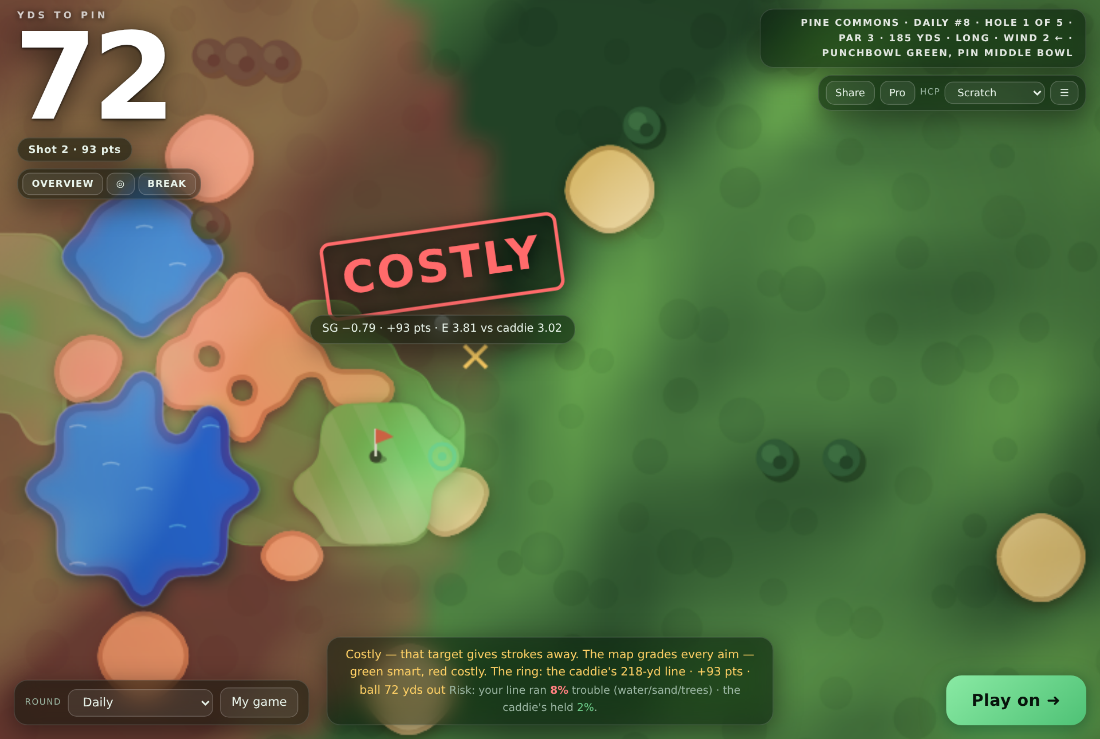
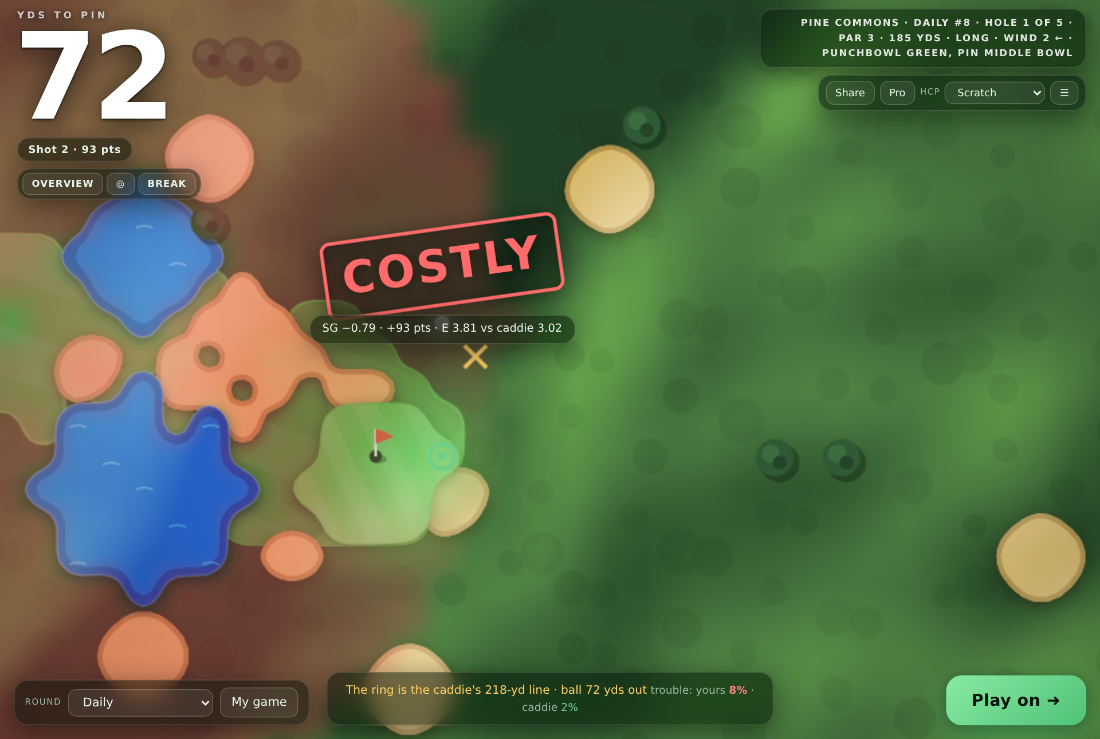
Say it once: the caddie line decrowded, and the first step toward real holes
THE BOTTOM BOX. It was carrying up to four dense lines because it repeated
what the rest of the screen already said: the stamp calls the verdict, the
chip carries the numbers, the canvas tag shows carry and plays-like — and the
box said all of it again, plus a "green smart, red costly" explainer riding
along on every single shot of every round. Now each element says its thing
exactly once. The box keeps only what nothing else shows: club, leave, the
landing odds, and on the reveal the caddie's line and the ball. Prose became
notation ("224y · plays 199 · driver · leaves 80"), the mechanics coaching
moved into the tutorial where it is said one time, and the heat-colour
explainer joined the Keep-score step.

THE REAL-HOLES QUESTION. The editor gains an aerial underlay: load a local
satellite or drone image, dial the ground back to a translucent tracing layer,
and paint the terrain you see — then certify and share exactly like any
authored hole. Two rules keep it honest. The TILES stay the truth: the engine
scores the mask, never the photo, and tracing is precisely the act of making
the two agree. And the IMAGE never leaves the machine: a shared URL carries
seed + patch only, so redistribution of imagery — the entire licensing
question — never arises. Tee and cup punch through the tracing alpha, because
they are the two facts a trace is anchored to.

Tests 279, all green. Proof: docs/proof/editor-trace.png (a photo under the
[…]

Changed region(s): [[0.2782, 0.8403, 0.7109, 0.9648]]

diff --git a/src/ui/copy.js b/src/ui/copy.js
@@ -24,14 +24,15 @@ export const copy = {
   scoreLine: (shot, pts) => `Shot ${shot} · ${pts} pts`,
 
   // ---- aiming ----
-  firstAim: (yds) =>
-    `${yds} yds to the pin. Move to aim — the ellipse is everywhere this shot can finish. Click the course (or tap Hit it) to play it.`,
-  nextShot: (shot, yds) => `${yds} yds in. Shot ${shot} — pick your target from this lie.`,
+  // One short line. The tutorial teaches the mechanics once; repeating them
+  // under every shot was most of why the box crowded the bottom of the screen.
+  firstAim: (yds) => `${yds} yds. Pick your target.`,
+  nextShot: (shot, yds) => `${yds} yds in. Pick your target.`,
   // `plays` is the elevation-adjusted number when the land moves it: the
   // caddie's own "165 yds — plays 178".
   aimReadout: ({ carry, club, leaves, atFlag, plays }) =>
-    `${carry}-yd carry` + (plays ? ` — plays ${plays}` : '') + `, ${club}`
-    + (atFlag ? ' — going at the flag.' : ` · leaves ${leaves} yds.`),
+    `${carry}y` + (plays ? ` · plays ${plays}` : '') + ` · ${club}`
+    + (atFlag ? ' · at the flag' : ` · leaves ${leaves}`),
   patternLine: ({ w, l, pct, medianLeave }) => {
     const parts = [];
     if (pct.green) parts.push(`<span class="fw">${pct.green}% green</span>`);
@@ -40,14 +41,14 @@ export const copy = {
     if (pct.sand) parts.push(`${pct.sand}% sand`);
     if (pct.trees) parts.push(`${pct.trees}% trees`);
     if (pct.wet) parts.push(`<span class="wet">${pct.wet}% water/OB</span>`);
-    return `Lands inside ${w} × ${l} yds · ${parts.join(' · ')}` +
-      (medianLeave !== null ? ` · median leave ${medianLeave} yds` : '');
+    return `${w}×${l} yds · ${parts.join(' · ')}` +
+      (medianLeave !== null ? ` · leave ~${medianLeave}` : '');
   },
   proPattern: 'Pro mode — no odds, no dots. Your read against the reveal. 🧠',
 
   // ---- putting ----
   // Same voice on the green: say the footage, then the pace, then nothing.
-  puttFirst: (ft) => `On the dance floor — a ${ft}-footer. Aim your pace; the ball rolls the line you set.`,
+  puttFirst: (ft) => `A ${ft}-footer. Aim your pace.`,
   puttNext: (n, ft) => `Putt ${n}: a ${ft}-footer left. Pick your pace.`,
   /** Pace call for `ft` feet past (+) or short (−) of the cup. */
   paceCall: (ft) => {
@@ -56,22 +57,22 @@ export const copy = {
     const mag = Math.abs(ft) < 2 ? `${Math.abs(inches)} inches` : `${Math.round(Math.abs(ft))} feet`;
     return ft > 0 ? `${mag} of pace past the cup` : `${mag} short of the cup`;
   },
-  puttAim: ({ ft, pace, make }) => `${ft}-footer, playing ${pace} — ${make}% to drop.`,
+  puttAim: ({ ft, pace, make }) => `${ft} ft · ${pace} · ${make}% to drop.`,
   /** Break call when slope bends the current line. `cups` is break in cup-widths. */
   puttBreakNote: (side, cups) =>
     cups < 1
       ? ` Breaks ${side} edge — hold your line.`
       : ` Breaks ${side} — play ${cups === 1 ? 'a cup' : `${cups} cups`} out.`,
   puttPatternLine: ({ make, three, leave }) =>
-    `<span class="fw">${make}% make</span> · ${three}% three-putt risk` +
-    (leave !== null ? ` · a miss leaves ${leave} ft` : ''),
+    `<span class="fw">${make}% make</span> · ${three}% 3-putt` +
+    (leave !== null ? ` · miss leaves ~${leave} ft` : ''),
   puttVerdictCall: (sg) =>
     sg < 0.02 ? 'Caddie-approved — perfect pace.'
     : sg < 0.08 ? 'Good read — a hair off the best pace.'
     : sg < 0.2 ? 'Playable, but the pace gave a little away.'
     : 'Costly — that pace burns putts.',
   puttVerdictLine: ({ call, pace, points, result }) =>
-    `${call} The caddie's read: ${pace} · +${points} pts · ${result}`,
+    `Caddie's read: ${pace} · ${result}`,
   puttResult: {
     holed: 'center cup — it drops! ⛳',
     left: (ft) => `stays out — a ${ft}-footer left`,
@@ -89,14 +90,13 @@ export const copy = {
     : sg < 0.08 ? 'Good call — a whisker off the best line.'
     : sg < 0.2 ? 'Playable, but there was a better line.'
     : 'Costly — that target gives strokes away.',
-  // Reveal line: name what the map means, then the caddie's line, then stop.
-  // The E-vs-E detail lives on the stamp chip — never say it twice.
+  // Reveal line. The STAMP owns the verdict and the chip owns the numbers, so
+  // this says only what neither does: where the caddie's line was and where
+  // the ball is. Saying the call twice was the crowding.
   verdictLine: ({ call, optCarry, sg, points, ballNow }) =>
-    `${call} The map grades every aim — green smart, red costly. The ring: ` +
-    `the caddie's ${optCarry}-yd line · +${points} pts · ${ballNow}`,
+    `The ring is the caddie's ${optCarry}-yd line · ${ballNow}`,
   riskLedger: (yours, caddies) =>
-    `Risk: your line ran <span class="wet">${yours}%</span> trouble (water/sand/trees) · ` +
-    `the caddie's held <span class="fw">${caddies}%</span>.`,
+    `trouble: yours <span class="wet">${yours}%</span> · caddie <span class="fw">${caddies}%</span>`,
   ballOut: (yds) => `ball ${yds} yds out`,
   outcome: {
     landed: 'landed',
@@ -157,7 +157,7 @@ export const copy = {
     { title: 'Aim the ellipse', body: 'Move the mouse — or drag a finger — and the ellipse follows. That is your shot pattern: the ball can finish anywhere inside it.' },
     { title: 'Read the light', body: 'The beam ahead of your ball is the caddie\u2019s honest read: lit ground costs fewer strokes from there, shadowed ground costs more. It only shows where this swing can reach \u2014 and it goes dark in Pro mode.' },
     { title: 'Commit the shot', body: 'Click the course (or tap Hit it) when you like the shape. The ball flies to one spot from your pattern — then the caddie shows the line they would have picked.' },
-    { title: 'Keep score', body: 'Every target is scored against the caddie’s best line — up to 1,000 points a hole. Closer call, bigger score.' },
+    { title: 'Keep score', body: 'After the shot, the map grades every aim — green smart, red costly — and your target is scored against the caddie’s best line, up to 1,000 points a hole.' },
   ],
   onboardingNext: 'Next',
   onboardingPlay: "Let's play",

diff --git a/src/ui/editor.js b/src/ui/editor.js
@@ -42,7 +42,59 @@ function invalidate() {
   document.getElementById('play').disabled = true;
 }
 
+// --- the aerial underlay -----------------------------------------------------
+// The first step toward playing real holes. A local image — a satellite or
+// drone capture the user already has — draws UNDER the tile grid, and the
+// ground fades to a translucent tracing layer over it. Paint what you see,
+// certify, share. Two rules keep it honest:
+//   THE TILES ARE STILL THE TRUTH. The engine scores the mask, not the photo.
+//   Tracing is exactly the act of making the two agree.
+//   THE IMAGE NEVER LEAVES THE MACHINE. It is session-state, not course data:
+//   a shared URL carries seed + patch, so redistribution of imagery — the
+//   entire licensing question — never arises.
+let underlay = null; // {img, dx, dy, dw, dh} cover-fitted to the board
+let traceAlpha = 0.45;
+
+function fitUnderlay(img) {
+  const k = Math.max(canvas.width / img.width, canvas.height / img.height);
+  const dw = img.width * k;
+  const dh = img.height * k;
+  return { img, dw, dh, dx: (canvas.width - dw) / 2, dy: (canvas.height - dh) / 2 };
+}
+
+document.getElementById('underlay').addEventListener('change', (e) => {
+  const file = e.target.files?.[0];
+  if (!file) return;
+  const img = new Image();
+  img.onload = () => {
+    underlay = fitUnderlay(img);
+    document.getElementById('tracectl').hidden = false;
+    document.getElementById('clearUnderlay').hidden = false;
+    document.getElementById('underlayNote').textContent =
+      'tracing: the photo is under the ground — paint the terrain you see';
+    draw();
+  };
+  img.src = URL.createObjectURL(file);
+});
+document.getElementById('traceAlpha').addEventListener('input', (e) => {
+  traceAlpha = Number(e.target.value) / 100;
+  draw();
+});
+document.getElementById('clearUnderlay').addEventListener('click', () => {
+  underlay = null;
+  document.getElementById('underlay').value = '';
+  document.getElementById('tracectl').hidden = true;
+  document.getElementById('clearUnderlay').hidden = true;
+  document.getElementById('underlayNote').textContent = '';
+  draw();
+});
+
 function draw() {
+  ctx.clearRect(0, 0, canvas.width, canvas.height);
+  if (underlay) {
+    ctx.drawImage(underlay.img, underlay.dx, underlay.dy, underlay.dw, underlay.dh);
+    ctx.globalAlpha = traceAlpha;
+  }
   for (let y = 0; y < course.height; y++) {
     for (let x = 0; x < course.width; x++) {
       const t = cellAt(course, x, y);
@@ -66,6 +118,9 @@ function draw() {
       }
     }
   }
+  // tee and cup punch through the tracing alpha: they are the two facts a
+  // trace is anchored to, so they never fade with the ground
+  ctx.globalAlpha = 1;
   ctx.fillStyle = '#fff';
   ctx.fillRect(course.tee.x * TILE + 6, course.tee.y * TILE + 6, 12, 12);
   ctx.fillStyle = '#e74c3c';

diff --git a/editor.html b/editor.html
@@ -29,7 +29,7 @@
   </nav>
 </header>
 <h1>Hole Editor</h1>
-<div class="sub">Load a hole, repaint the ground, certify it, share it as a URL. Tee and cup stay put.</div>
+<div class="sub">Load a hole, repaint the ground, certify it, share it as a URL. Tee and cup stay put. To trace a <b>real hole</b>: load an aerial image as an underlay, dial the ground back, and paint what you see — the image never leaves your machine and never ships with the course.</div>
 <div id="bar" class="panel bar">
   <label>Seed <input id="seed" type="number" value="42" style="width:110px"></label>
   <select id="biome">
@@ -45,6 +45,14 @@
   <button id="share" disabled>Copy challenge URL</button>
   <button id="play" disabled>Play it</button>
   <span id="verdict"></span>
+</div>
+<div id="underlaybar" class="panel bar">
+  <label>Aerial underlay <input id="underlay" type="file" accept="image/*"></label>
+  <label id="tracectl" hidden>Ground opacity
+    <input id="traceAlpha" type="range" min="15" max="100" value="45" style="width:140px">
+  </label>
+  <button id="clearUnderlay" hidden>Remove underlay</button>
+  <span class="meta" id="underlayNote"></span>
 </div>
 <div id="palette" class="panel bar"></div>
 <canvas id="board" width="960" height="576"></canvas>
